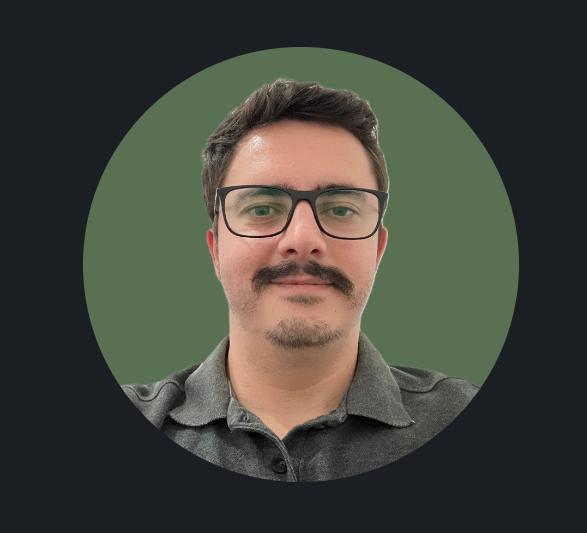
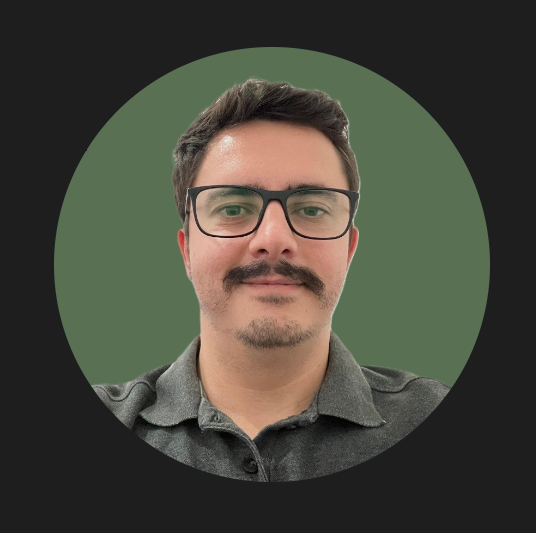
a
a

diff --git a/index.html b/index.html
@@ -42,7 +42,7 @@
       <div class="sidebar-info">
 
         <figure class="avatar-box">
-          <img src="./assets/images/eu.jpg" class="Jeff" width="80px">
+          <img src="./assets/images/mee.png" class="Jeff" width="80px">
         </figure>
 
         <div class="info-content">
